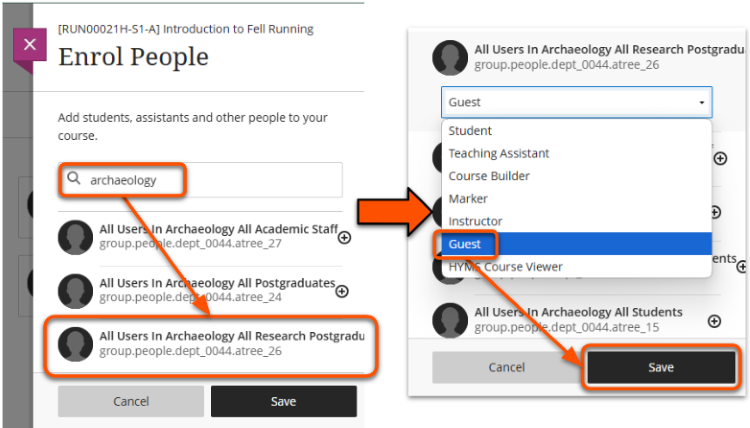
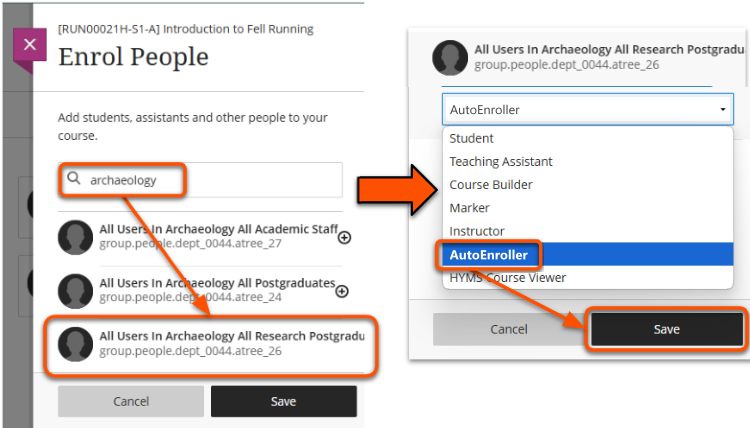
Guest to AutoEnroller
Changing Guest to AutoEnroller in a few locations to highlight datafeed changes made today

Changed region(s): [[0.46, 0.2126, 1.0, 0.9416]]

diff --git a/docs/ultra/user-management.md b/docs/ultra/user-management.md
@@ -43,7 +43,8 @@ There are six main roles, summarised below from the most to the least permissive
 | Marker | Marker | Staff/GTAs who only need to mark student submissions, or who should not have edit access to content. Can't access closed sites. |
 | Course Builder | Organisation Builder | Staff/GTAs who only need to build or edit course content. They can't mark student submissions. |
 | Student | Participant | Students studying the module, any user that should have read-only access to the site (note: they will appear in the Gradebook). Can't access closed sites. |
-| Guest | Guest | **Do not use** - only used for automatic group enrolments (see below). |
+| Guest | Guest | **Do not use** - Shouldn't be used for anything after February 2025. |
+| AutoEnroller | AutoEnroller | Should be used on auto-enrolling objects from February 2025 onwards. |
 
 For more information on each Role's access level and what they can do, see [our Course Roles spreadsheet](https://docs.google.com/spreadsheets/d/1aCRa_aV3JQrgppSFVRjbyznAJvuEVZTVJEnlo5tLkfc/edit?usp=sharing).
 
@@ -55,9 +56,11 @@ For more information on each Role's access level and what they can do, see [our 
 
       **Don't give an individual the Guest role**. The Guest role is not available for individuals, and users assigned this role will not be able to access the site.
 
-The Guest role is used for [automatic enrolments through cohort user groups](#enrol-via-larger-grouping) (aka *SITS Group Users* and *People Group Users*), so you might see *Guest* in your class register - this is correct!
+Before Feb' 2025 the Guest role was used for [automatic enrolments through cohort user groups](#enrol-via-larger-grouping) (aka *SITS Group Users* and *People Group Users*), so you might see *Guest* in your older class register - this is normal.
 
-These user groups automatically pull user data from SITS and enrol individual users. For example, this is how students are enrolled on module sites.
+From Feb' 2025 onward, [the AutoEnroller role should be used instead of Guest](https://elearningyork.wpcomstaging.com/2025/02/17/change-guest-role-being-replaced-by-autoenroller-for-vle-automatic-enrolments/).
+
+These user groups automatically pull user data from SITS and enrol individual users, always giving them student-level access. For example, this is how students are enrolled on module sites.
 
 ### Update a user's role
 
@@ -123,7 +126,7 @@ To enrol a **SITS group user**:
 2. Search for the the module code to enrol (eg. LAW00008M)
 3. Carefully select the correct group by checking the identifier below the group name for the right year, level, semester and occurrence.
 Eg. group name (2024-law00008m-s2-a) = year *2024*, level *m*, semester *s2* and occurrence *a*.
-4. In the drop-down menu, select the **Guest** role and then click **Save**.
+4. In the drop-down menu, select the **AutoEnroller** role (new Feb 2025) and then click **Save**.
 </br>![Searching for the module code returns two groups: previous and current year cohorts](images/user-management-enrol-SITS-group.png)
 
 Students enrolled on the module in SITS will be added to the site at the data synchronisation at around 9am the next morning.
@@ -160,7 +163,7 @@ To enrol a people group user:
 1. Open the **Class Register** and click the **plus icon** in the top right.
 </br>![decorative](images/user-management-enrol-plus.png)
 2. Type a cohort keyword like *postgraduate* or *archaeology* to see all the groups available. Carefully select the correct group (see below for tips).
-3. In the drop-down menu, select the **Guest** role and then click **Save**.
+3. In the drop-down menu, select the **AutoEnroller** role (new Feb 2025) and then click **Save**.
 </br>![Searching for a department returns all associated staff and student group users](images/user-management-enrol-PG-group.png)
 
 #### Tips for finding the correct group
